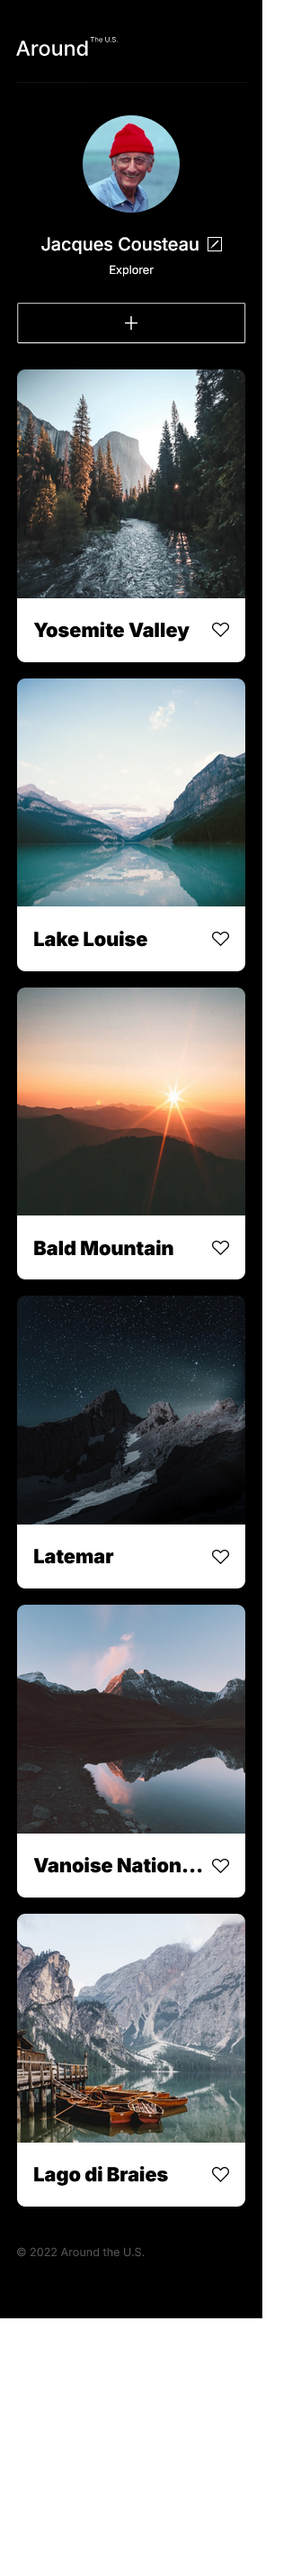
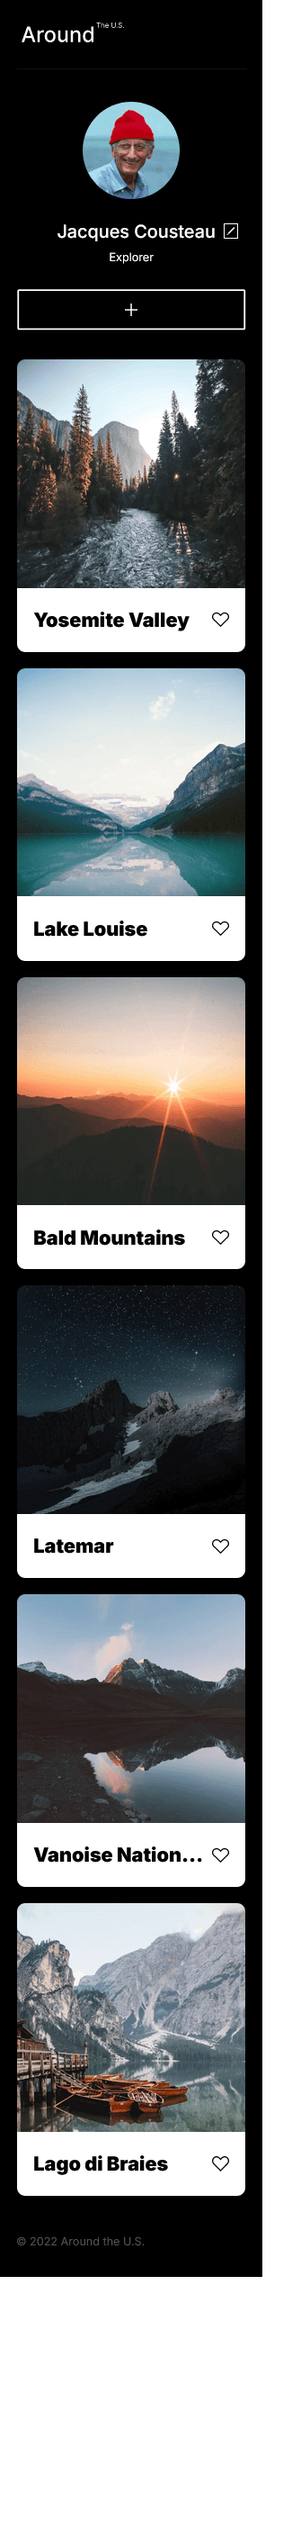
Project 3

diff --git a/pages/index.css b/pages/index.css
@@ -8,7 +8,7 @@
 
 @media screen and (max-width: 760px) {
   .profile__info {
-    margin-left: 10px;
+    padding-left: 10px;
   }
 
   .profile__title {
@@ -32,9 +32,14 @@
 }
 
 @media screen and (max-width: 600px) {
+  .page {
+    padding: 28px 20px 36px;
+  }
+
   .header__logo {
     width: 126px;
     height: 24px;
+    padding-left: 7px;
   }
 
   .header__line {
@@ -56,7 +61,7 @@
     align-items: center;
     justify-content: center;
     gap: 10px;
-    margin: 26.25px 0 32px;
+    padding: 30px 0 32px;
   }
 
   .profile__title {
@@ -64,6 +69,7 @@
     font-size: 22px;
     font-style: normal;
     line-height: normal;
+    padding-left: 27px;
   }
 
   .profile__description {
@@ -89,7 +95,7 @@
   }
 
   .cards {
-    margin-top: 32px;
+    padding-top: 36px;
   }
 
   .footer {
@@ -97,6 +103,6 @@
   }
 
   .footer__copyright {
-    margin-top: 47px;
+    padding-top: 47px;
   }
 }

diff --git a/blocks/profile.css b/blocks/profile.css
@@ -17,11 +17,11 @@
   grid-template-areas:
     "title button"
     "description description";
-  grid-gap: 13px 18px;
+  grid-gap: 10px 18px;
   justify-content: flex-start;
   width: 100%;
   align-items: baseline;
-  margin: 0 10px 0 26.25px;
+  padding: 0 10px 0 26.25px;
 }
 
 .profile__title {
@@ -54,6 +54,7 @@
   background: transparent url(../images/edit-button.svg) center no-repeat;
   height: 24px;
   width: 24px;
+  padding: 0;
   grid-area: button;
   border: solid white 1px;
   cursor: pointer;
@@ -68,8 +69,9 @@
   height: 50px;
   width: 150px;
   margin-left: auto;
+  padding: 0;
   flex-shrink: 0;
-  border: solid white 1px;
+  border: solid white 2px;
   border-radius: 2px;
   cursor: pointer;
   position: relative;

diff --git a/index.html b/index.html
@@ -70,7 +70,7 @@
                 class="card__image"
               />
               <div class="card__description">
-                <h2 class="card__title">Bald Mountain</h2>
+                <h2 class="card__title">Bald Mountains</h2>
                 <button class="card__like-button"></button>
               </div>
             </li>

diff --git a/blocks/footer.css b/blocks/footer.css
@@ -7,5 +7,6 @@
 }
 
 .footer__copyright {
-  margin-top: 67px;
+  margin: 0;
+  padding-top: 67px;
 }

diff --git a/blocks/cards.css b/blocks/cards.css
@@ -1,5 +1,5 @@
 .cards {
-  margin-top: 47.25px;
+  padding-top: 47.25px;
 }
 
 .card__list {
